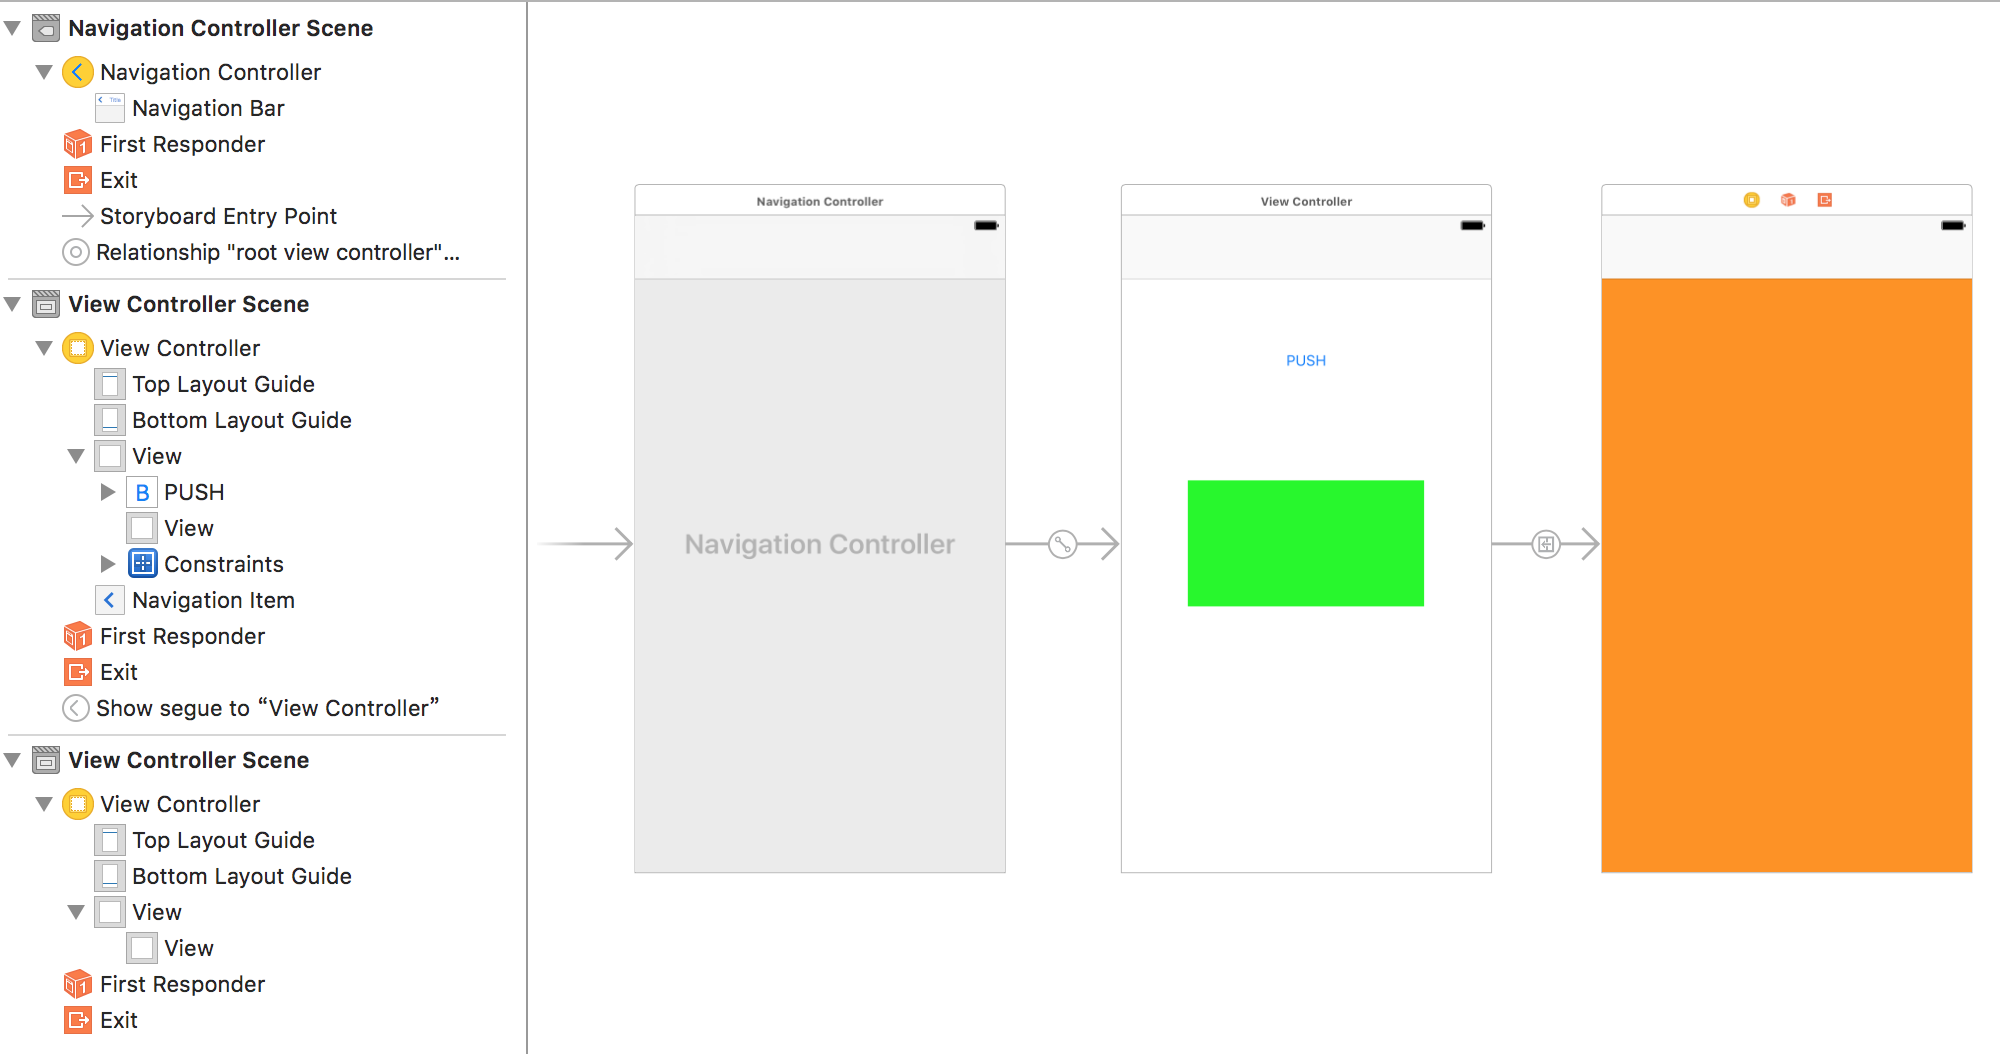
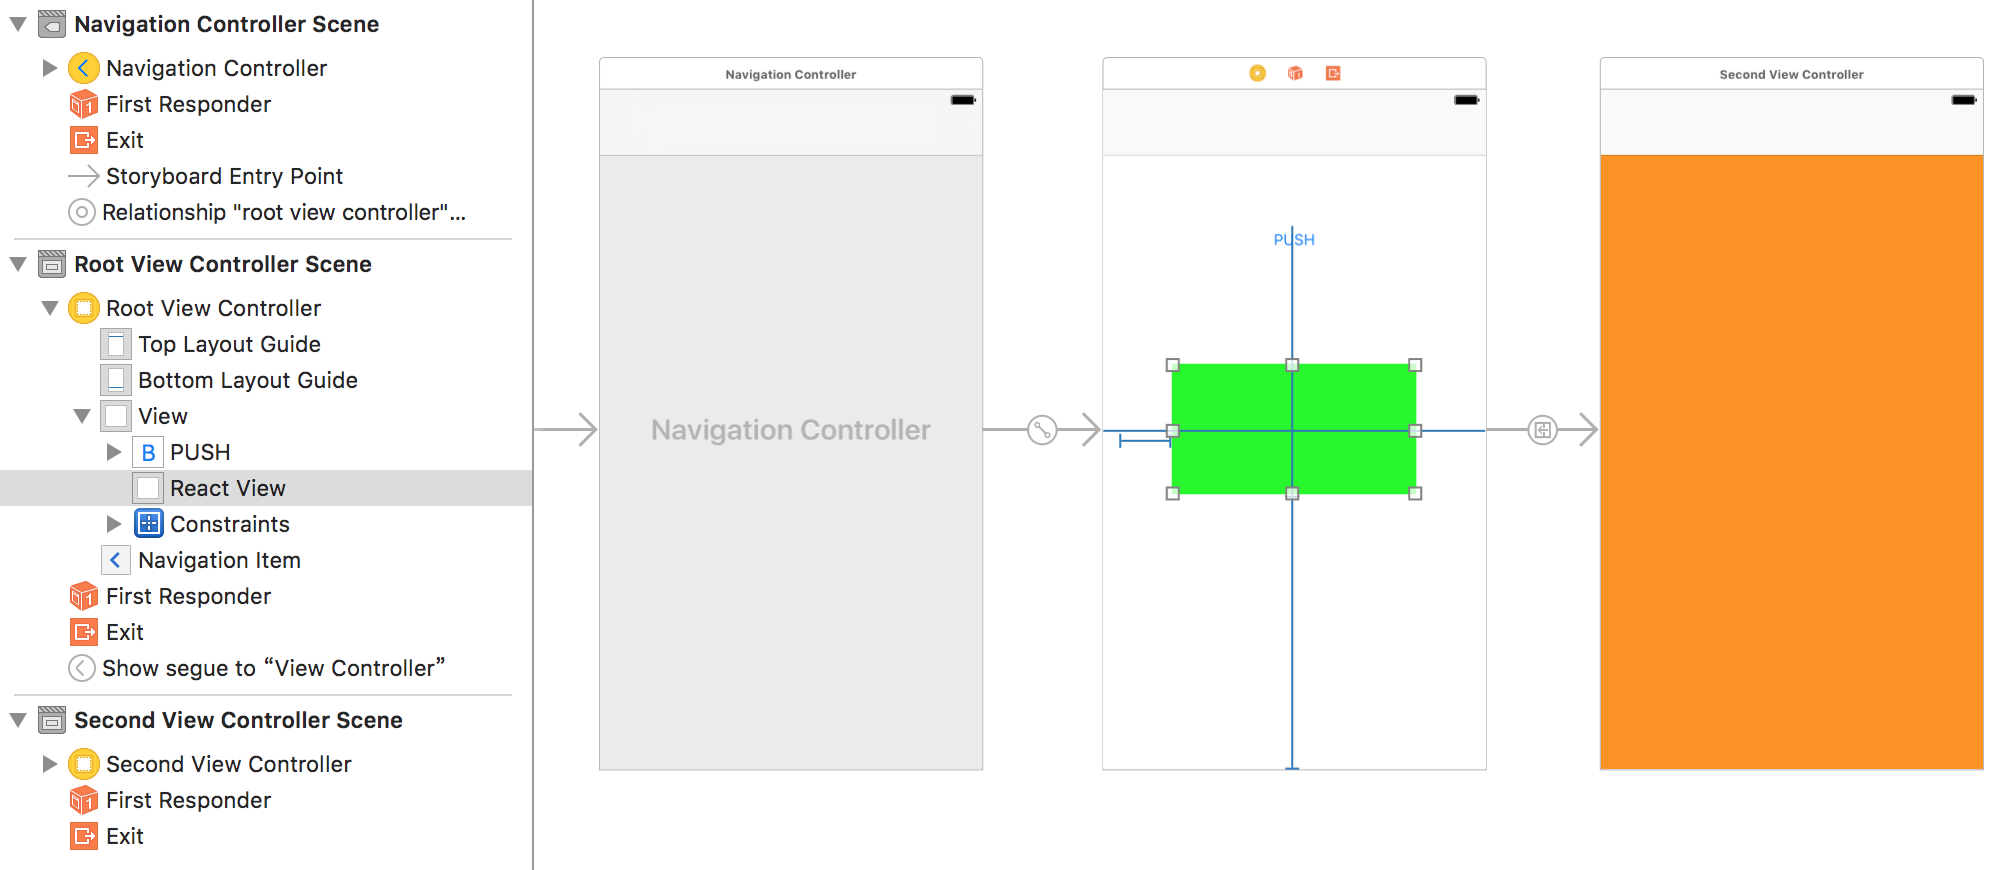
images

diff --git a/_drafts/2017-01-19-RN-in-project.md b/_drafts/2017-01-19-RN-in-project.md
@@ -100,8 +100,11 @@ React.AppRegistry.registerComponent('SimpleApp', () => SimpleApp);
 
 ### 项目中引用
 
-项目配置如图：
+项目页面如图：
 
+![01](https://lettleprince.github.io/images/20170119-react-in-project/01.png)
+
+![02](https://lettleprince.github.io/images/20170119-react-in-project/02.png)
 
 新建 `ReactView` 类：
 
@@ -135,6 +138,31 @@ React.AppRegistry.registerComponent('SimpleApp', () => SimpleApp);
 
 @end
 ```
+
+`RootViewController.m` 中：
+
+```OC
+#import "RootViewController.h"
+#import "ReactView.h"
+
+@interface RootViewController ()
+
+@property (weak, nonatomic) IBOutlet ReactView *reactView;
+
+@end
+
+@implementation RootViewController
+
+- (void)viewDidLoad {
+    [super viewDidLoad];
+    // Do any additional setup after loading the view.
+}
+
+@end
+```
+
+此时运行会报错：
+![03](https://lettleprince.github.io/images/20170119-react-in-project/03.png)
 
 
 ### 代码：
